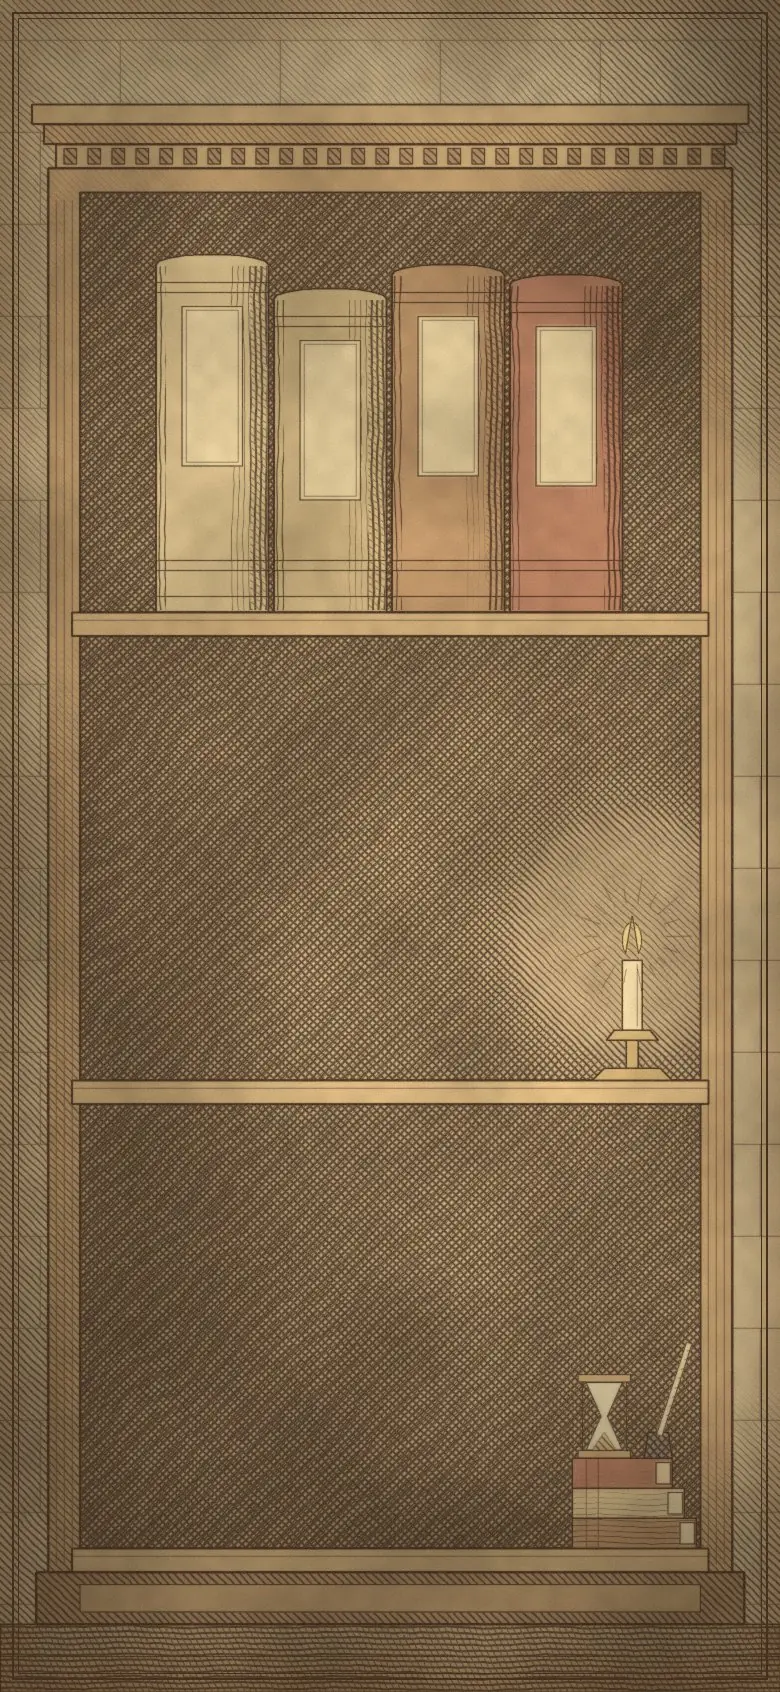
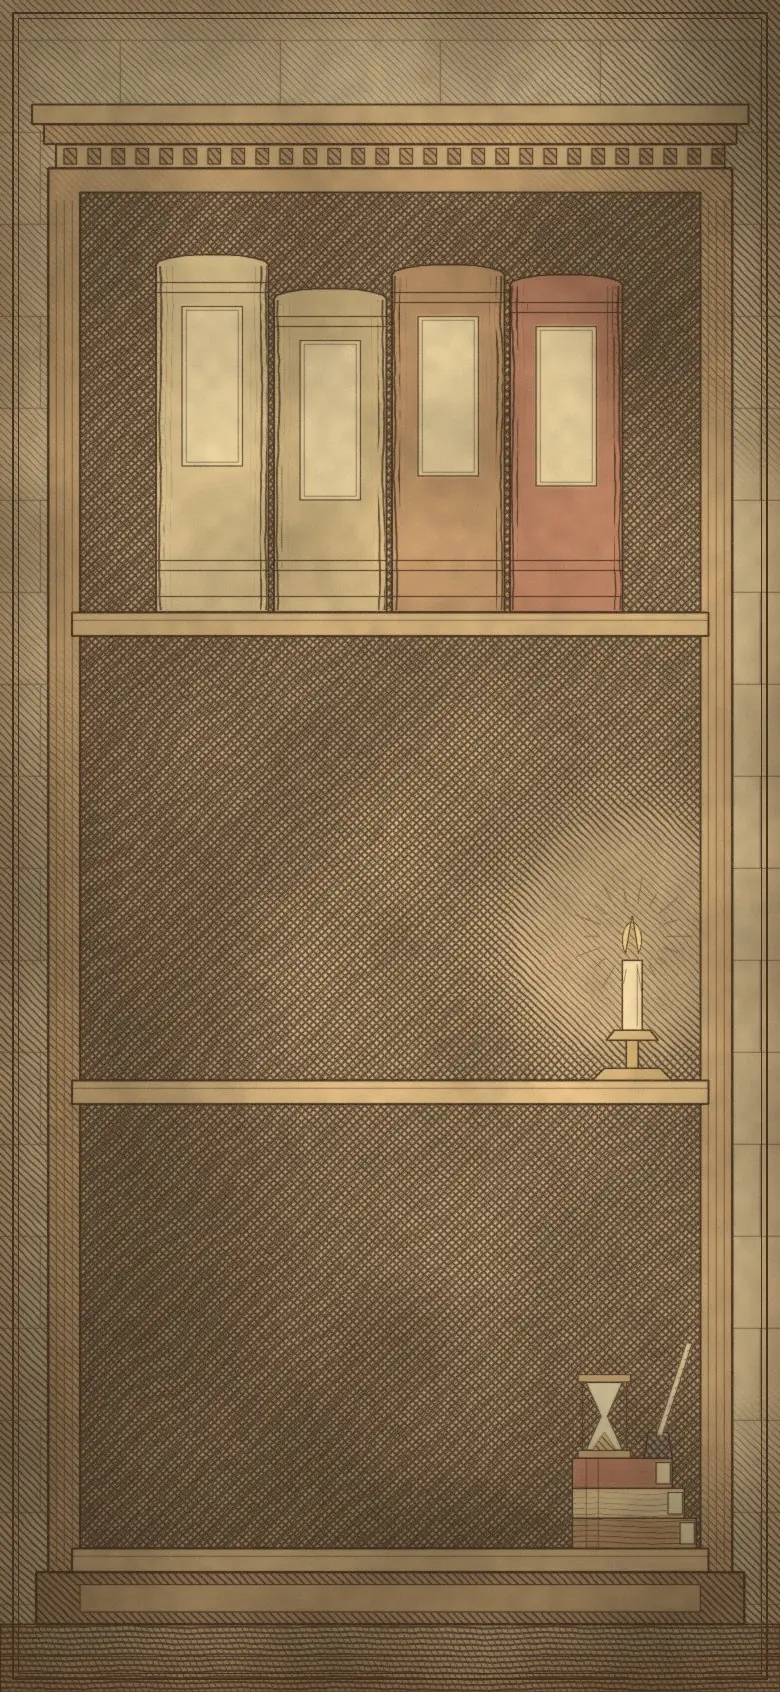
성경 서고: 화면을 꽉 채움 · 걸어 들어가는 움직임 · 빈 곳을 눌러 나오기 · 책등 가운데 맞춤
- 좌우 빈 띠: 무대를 화면 너비에 맞추고 높이는 화면 비율대로. 서고 그림은 위아래를 덜어 내고, 서가는 너비를 채운 채 높이만 맞춤(글자는 눌리지 않게)
- 이름: 개론을 보는 곳은 '성경 서고'. '나' 탭의 '성경 책장'(읽은 분량)은 그대로
- 서고에서 구약·신약·외경 쪽을 누르면 그 앞으로 걸어가듯 다가감(돌아올 때도). 서가를 고르면 한 걸음 더 다가가며 열림
- 빈 곳(배경)을 누르면 한 단계 뒤로. 책 화면은 아래 가운데 '닫기'로도 나옴
- 책등: 그늘이 오른쪽에만 넓어 이름표가 오른쪽으로 쏠려 보이던 것을 양쪽 같게 다시 그림(서가 일곱)
- 화살표는 글자 대신 그림으로(기기마다 글자 꼴이 달라 어긋남)

Claude-Session: https://claude.ai/code/session_01YHGXxyGbg79v2Vbzm5nK9K

diff --git a/app/template3.html b/app/template3.html
@@ -3943,7 +3943,7 @@ function renderHead(){
   { const bl=document.getElementById("brandL"), hx=document.getElementById("hdx"); const isT=!view.pre&&!view.revW&&view.w===here.w&&view.d===here.d, MISS=missedDays();
     const REL=(()=>{ if(view.pre||view.revW) return null; const t0=today0(), dd=dayDiff(t0,dt); if(dd===0) return "오늘"; if(dd===-1) return "어제"; if(dd===1) return "내일"; const ws=x=>{ const y=new Date(x); y.setDate(y.getDate()-y.getDay()); return y; }, wd=Math.round(dayDiff(ws(t0),ws(dt))/7); return wd===0?"이번 주":wd===-1?"지난주":wd===1?"다음 주":wd<0?`${-wd}주 전`:`${wd}주 뒤`; })(); /* 11/3 목사님: 오늘/오늘로는 날짜 옆에, 지금 보는 날이 언제인지 말로 */
     if(bl) bl.innerHTML=`<button class="v2d" id="rgDate" aria-label="통독표 열기">${esc(fmt(dt,{month:"long",day:"numeric",weekday:"short"}))}<svg class="v2dv" viewBox="0 0 24 24" width="14" height="14" aria-hidden="true"><path d="m6 9 6 6 6-6" fill="none" stroke="currentColor" stroke-width="2.6" stroke-linecap="round" stroke-linejoin="round"/></svg></button>${REL?(REL==="오늘"?`<button class="rgrel now" id="rgCal" aria-label="오늘 · 통독표 열기">오늘</button>`:`<button class="rgrel" id="rgToday" aria-label="${esc(REL)} · 오늘로 가기"><span>${esc(REL)}</span><i>오늘로</i><svg viewBox="0 0 24 24" width="12" height="12" aria-hidden="true"><path d="m9 6 6 6-6 6" fill="none" stroke="currentColor" stroke-width="3" stroke-linecap="round" stroke-linejoin="round"/></svg></button>`):""}<small class="v2p">${view.revW?esc(PI.name):esc(Y27?PI.name:(dayNo(view.w,view.d)+"일째"))}</small><span id="planName" hidden></span>`;
-    if(hx) hx.innerHTML=`<button class="rgcal" id="rgLib" aria-label="스토리 모음"><svg viewBox="0 0 24 24" width="20" height="20" fill="none" stroke="currentColor" stroke-width="2" stroke-linecap="round" stroke-linejoin="round"><circle cx="12" cy="12" r="9"/><path d="M10 8.6v6.8l5.6-3.4z" fill="currentColor"/></svg></button><button class="rgcal" id="rgMap" aria-label="성경 지도"><svg viewBox="0 0 24 24" width="20" height="20" fill="none" stroke="currentColor" stroke-width="2" stroke-linejoin="round"><path d="M12 21s-6.5-5.6-6.5-11a6.5 6.5 0 0 1 13 0c0 5.4-6.5 11-6.5 11z"/><circle cx="12" cy="10" r="2.4"/></svg></button><button class="rgcal" id="rgShelf" aria-label="성경책장"><svg viewBox="0 0 24 24" width="20" height="20" fill="none" stroke="currentColor" stroke-width="2" stroke-linejoin="round"><rect x="3.5" y="4" width="4.4" height="16" rx=".6"/><rect x="9.4" y="7" width="4.4" height="13" rx=".6"/><path d="M15.5 8.4l3.9-1 3 11.6-3.9 1z"/></svg></button>`; } document.getElementById("planSrc").textContent=PI.src; const ts=document.getElementById("trSrc"); if(ts) ts.textContent=TR_INFO[TR].src;
+    if(hx) hx.innerHTML=`<button class="rgcal" id="rgLib" aria-label="스토리 모음"><svg viewBox="0 0 24 24" width="20" height="20" fill="none" stroke="currentColor" stroke-width="2" stroke-linecap="round" stroke-linejoin="round"><circle cx="12" cy="12" r="9"/><path d="M10 8.6v6.8l5.6-3.4z" fill="currentColor"/></svg></button><button class="rgcal" id="rgMap" aria-label="성경 지도"><svg viewBox="0 0 24 24" width="20" height="20" fill="none" stroke="currentColor" stroke-width="2" stroke-linejoin="round"><path d="M12 21s-6.5-5.6-6.5-11a6.5 6.5 0 0 1 13 0c0 5.4-6.5 11-6.5 11z"/><circle cx="12" cy="10" r="2.4"/></svg></button><button class="rgcal" id="rgShelf" aria-label="성경 서고"><svg viewBox="0 0 24 24" width="20" height="20" fill="none" stroke="currentColor" stroke-width="2" stroke-linejoin="round"><rect x="3.5" y="4" width="4.4" height="16" rx=".6"/><rect x="9.4" y="7" width="4.4" height="13" rx=".6"/><path d="M15.5 8.4l3.9-1 3 11.6-3.9 1z"/></svg></button>`; } document.getElementById("planSrc").textContent=PI.src; const ts=document.getElementById("trSrc"); if(ts) ts.textContent=TR_INFO[TR].src;
   document.querySelectorAll(".bnav .tab").forEach(t=>t.setAttribute("aria-selected",t.dataset.tab===view.tab));
 }
 
@@ -7021,12 +7021,12 @@ function earthOpen(o){ o=o||{};
       onClose:()=>{ ovDone(earthClose); }, onFail:()=>{ EARTH_FAIL=true; toast("지구 지도를 열지 못해 지금 지도로 엽니다."); bmOpen("day"); }});
     if(ok) ovOpen(earthClose); }).catch(()=>{ EARTH_FAIL=true; toast("지구 지도를 받지 못했습니다. 인터넷 연결을 확인해 주세요. 지금 지도로 엽니다."); bmOpen("day"); })); }
 function earthClose(pop){ if(window.CBSR_EARTH&&CBSR_EARTH.isOpen()) CBSR_EARTH.close(true); if(pop!==true) ovDone(earthClose); }
-/* 성경책장(서고) — 11-24 목사님: 진입 경로를 넣고 앱에서 서고를 볼 수 있게. 들어가는 문은 맨 위 스토리 모음·지도 단추 옆.
+/* 성경 서고 — 11-24 목사님: 진입 경로를 넣고 앱에서 서고를 볼 수 있게. 이름은 '성경 서고'(책의 개론). '나' 탭의 '성경 책장'(읽은 분량)과는 기능이 달라 이름을 가름. 들어가는 문은 맨 위 스토리 모음·지도 단추 옆.
    서고는 세 부분(구약 · 신약 · 외경과 위경과 교부 문헌, 셋째는 지금 경고문만). 본체는 shelf.js(필요할 때만 불러옴), 원고는 shelf_66.json(성경책장 작업대의 원고), 그림은 img/shelf */
 let SHELF_LD=null;
 function shelfLoad(){ if(window.CBSR_SHELF) return Promise.resolve(); if(SHELF_LD) return SHELF_LD;
   return SHELF_LD=new Promise((ok,no)=>{ const s=document.createElement("script"); s.src="shelf.js"; s.onload=ok; s.onerror=no; document.head.appendChild(s); }).catch(e=>{ SHELF_LD=null; throw e; }); }
-function shelfOpen(o){ o=o||{}; shelfLoad().then(()=>{ if(CBSR_SHELF.isOpen()) return; const ok=CBSR_SHELF.open({book:o.book,push:ovOpen,done:ovDone,toast,onClose:()=>{ ovDone(shelfClose); }}); if(ok) ovOpen(shelfClose); }).catch(()=>toast("성경책장을 불러오지 못했습니다. 인터넷 연결을 확인해 주세요.")); }
+function shelfOpen(o){ o=o||{}; shelfLoad().then(()=>{ if(CBSR_SHELF.isOpen()) return; const ok=CBSR_SHELF.open({book:o.book,push:ovOpen,done:ovDone,toast,onClose:()=>{ ovDone(shelfClose); }}); if(ok) ovOpen(shelfClose); }).catch(()=>toast("성경 서고를 불러오지 못했습니다. 인터넷 연결을 확인해 주세요.")); }
 function shelfClose(pop){ if(window.CBSR_SHELF&&CBSR_SHELF.isOpen()) CBSR_SHELF.close(true); if(pop!==true) ovDone(shelfClose); }
 function bmOpenRoute(r){ const i=ROUTES_B.indexOf(r); if(i<0) return; bmOpen("trip",{era:bmEra(r.b,r.c[0]),sel:i}); }
 /* ===== 큰 여정 따라가기(목사님 2026-10-30): 출애굽 40년·엘리야·바울의 여행처럼 긴 여정을 단계마다 카메라가 따라가며 보여 줌.
@@ -9749,7 +9749,7 @@ const TOUR2=[
  {tab:"today",sel:"#rgDate",t:"날짜",d:"누르면 통독표가 열려 다른 날로 갈 수 있습니다. 지난 날은 스토리와 묵상까지, 내일부터는 본문만 열립니다."},
  {tab:"today",sel:"#rgLib",t:"스토리 모음",d:"본문을 읽은 날의 스토리를 다시 봅니다."},
  {tab:"today",sel:"#rgMap",t:"성경 지도",d:"오늘 이야기가 일어난 곳과 큰 여정을 지도에서 봅니다."},
- {tab:"today",sel:"#rgShelf",t:"성경책장",d:"책마다 저자와 배경, 구조를 살펴봅니다."},
+ {tab:"today",sel:"#rgShelf",t:"성경 서고",d:"책마다 저자와 배경, 구조를 살펴봅니다."},
  {tab:"read",sel:"#v2Aid",t:"① 읽기 전",d:"읽기 전에 오늘의 읽기 도구와 어려운 말뜻을 짧게 봅니다."},
  {tab:"read",sel:"#bible",t:"② 본문",d:"절을 누르면 형광펜 · 책갈피 · 말씀 카드가 나옵니다. 점선 밑줄 친 말을 누르면 뜻풀이가 나옵니다."},
  {tab:"read",sel:"#rd3",t:"③ 읽은 뒤",d:"눈여겨볼 것, 지도, 성경 전체로 이어 보기, 읽기 도구가 모여 있습니다."},
